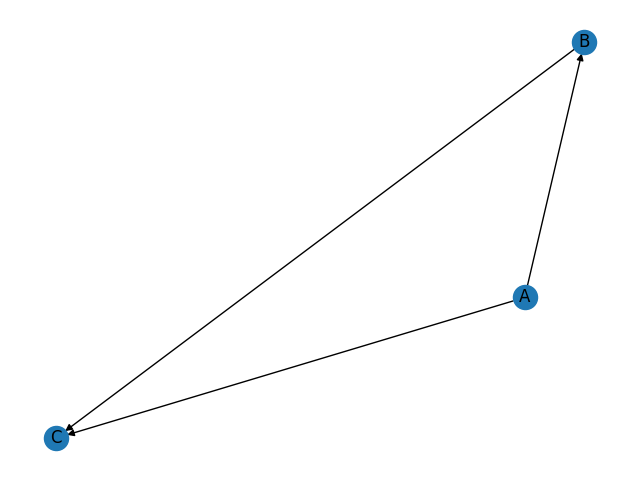
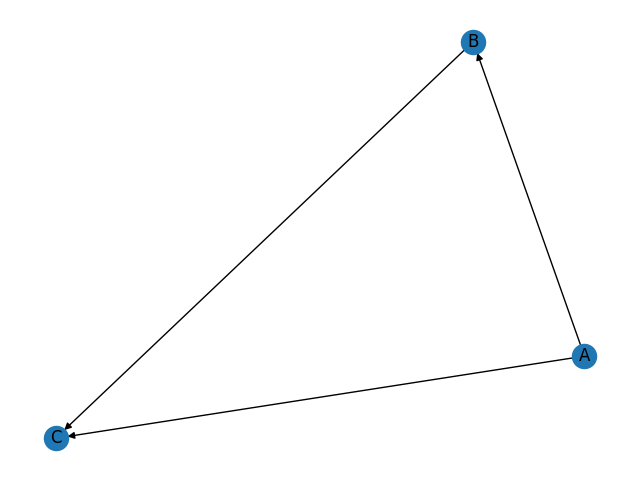
Update requirements.txt and Add edges to graph images

diff --git a/src/views/Main_Window/Main_Window_UI.py b/src/views/Main_Window/Main_Window_UI.py
@@ -51,21 +51,27 @@ class MainWindow(QtWidgets.QMainWindow):
 
     def create_image_section(self):
         # Crear una sección para mostrar la imagen
-        image_section = QtWidgets.QWidget(self)
-        image_layout = QtWidgets.QVBoxLayout(image_section)
+        image_tab = QtWidgets.QTabWidget(self)
+        image_layout = QtWidgets.QVBoxLayout(image_tab)
 
-        # Crear un label para mostrar la imagen
-        image_label = QtWidgets.QLabel(self)
-        image_label.setScaledContents(True)
-        pixmap = QtGui.QPixmap(self.main_window_controller.get_graph_image_route('test'))
-        image_label.setPixmap(pixmap)
+        for graph_name, graph in self.main_window_controller.graphs.items():
+            # Crear un label para mostrar la imagen
+            image_label = QtWidgets.QLabel(self)
+            image_label.setScaledContents(True)
+
+            # ruta de la imagen (que es igual al nombre del grafo creado)
+            image_route = self.main_window_controller.get_graph_image_route(graph_name)
+
+            # mostrar imagen
+            pixmap = QtGui.QPixmap(image_route)
+            image_label.setPixmap(pixmap)
+
+            image_tab.addTab(image_label, graph_name)
 
         # Añadir el label a la sección de la imagen
-        image_layout.addWidget(image_label)
+        image_layout.addWidget(image_tab)
 
-        self.main_window_controller.save_graph_image()
-
-        return image_section
+        return image_tab
 
     def create_button_section(self):
         # Crear una sección para los botones

diff --git a/src/modules/file_reader/services/File_Reader_Services.py b/src/modules/file_reader/services/File_Reader_Services.py
@@ -43,12 +43,31 @@ class FileReaderServices:
 
     @staticmethod
     def export_graph_to_image(graph: Graph, image_name: str):
+        # convertir el grafo normal a un grafo de networkx
         save_graph = FileReaderServices.convert_graph_to_nx_graph(graph)
-        nx.draw(save_graph, with_labels=True)
 
         # crear la ruta de la imagen a exportar
         image_route = FileReaderServices.create_graph_image_route(image_name)
 
+        graph_edges = [(u, v) for (u, v, d) in save_graph.edges(data=True)]
+
+        # positions for all nodes - seed for reproducibility
+        pos = nx.spring_layout(save_graph, seed=20)
+
+        # nodes
+        nx.draw_networkx_nodes(save_graph, pos, node_size=500)
+
+        # edges
+        nx.draw_networkx_edges(save_graph, pos, edgelist=graph_edges, width=2)
+
+        # node labels
+        nx.draw_networkx_labels(save_graph, pos, font_size=15)
+        # edge weight labels
+        edge_labels = nx.get_edge_attributes(save_graph, "weight")
+        nx.draw_networkx_edge_labels(save_graph, pos, edge_labels)
+
+        # guardar imagen con matplotlib
+        plt.axis("off")
         plt.savefig(image_route)
 
     @staticmethod
@@ -75,6 +94,6 @@ class FileReaderServices:
 
             for edge in node_edges:
                 next_node_label = str(edge.node.label)
-                save_graph.add_edge(node_label, next_node_label)
+                save_graph.add_edge(node_label, next_node_label, weight=edge.weight)
 
         return save_graph

diff --git a/src/views/Main_Window/Main_Window_Controller.py b/src/views/Main_Window/Main_Window_Controller.py
@@ -9,11 +9,15 @@ class MainWindowController:
         self.file_reader_services = FileReaderServices()
 
         # lista de todos los grafos utilizados
-        self.graphs = [self.create_default_graph()]
+        self.graphs: dict = {'Init Graph': self.create_default_graph()}
 
-    def save_graph_image(self):
-        save_graph = self.graphs[0]
-        self.file_reader_services.export_graph_to_image(save_graph, 'test')
+        # crear la imagen del grafo creado por defecto
+        self.save_graph_image('Init Graph')
+
+    # método para guardar uno de los grafos guardados en una imagen
+    def save_graph_image(self, graph_name: str):
+        save_graph = self.graphs[graph_name]
+        self.file_reader_services.export_graph_to_image(save_graph, graph_name)
 
     def get_graph_image_route(self, graph_name: str) -> str:
         return FileReaderServices.create_graph_image_route(graph_name)
